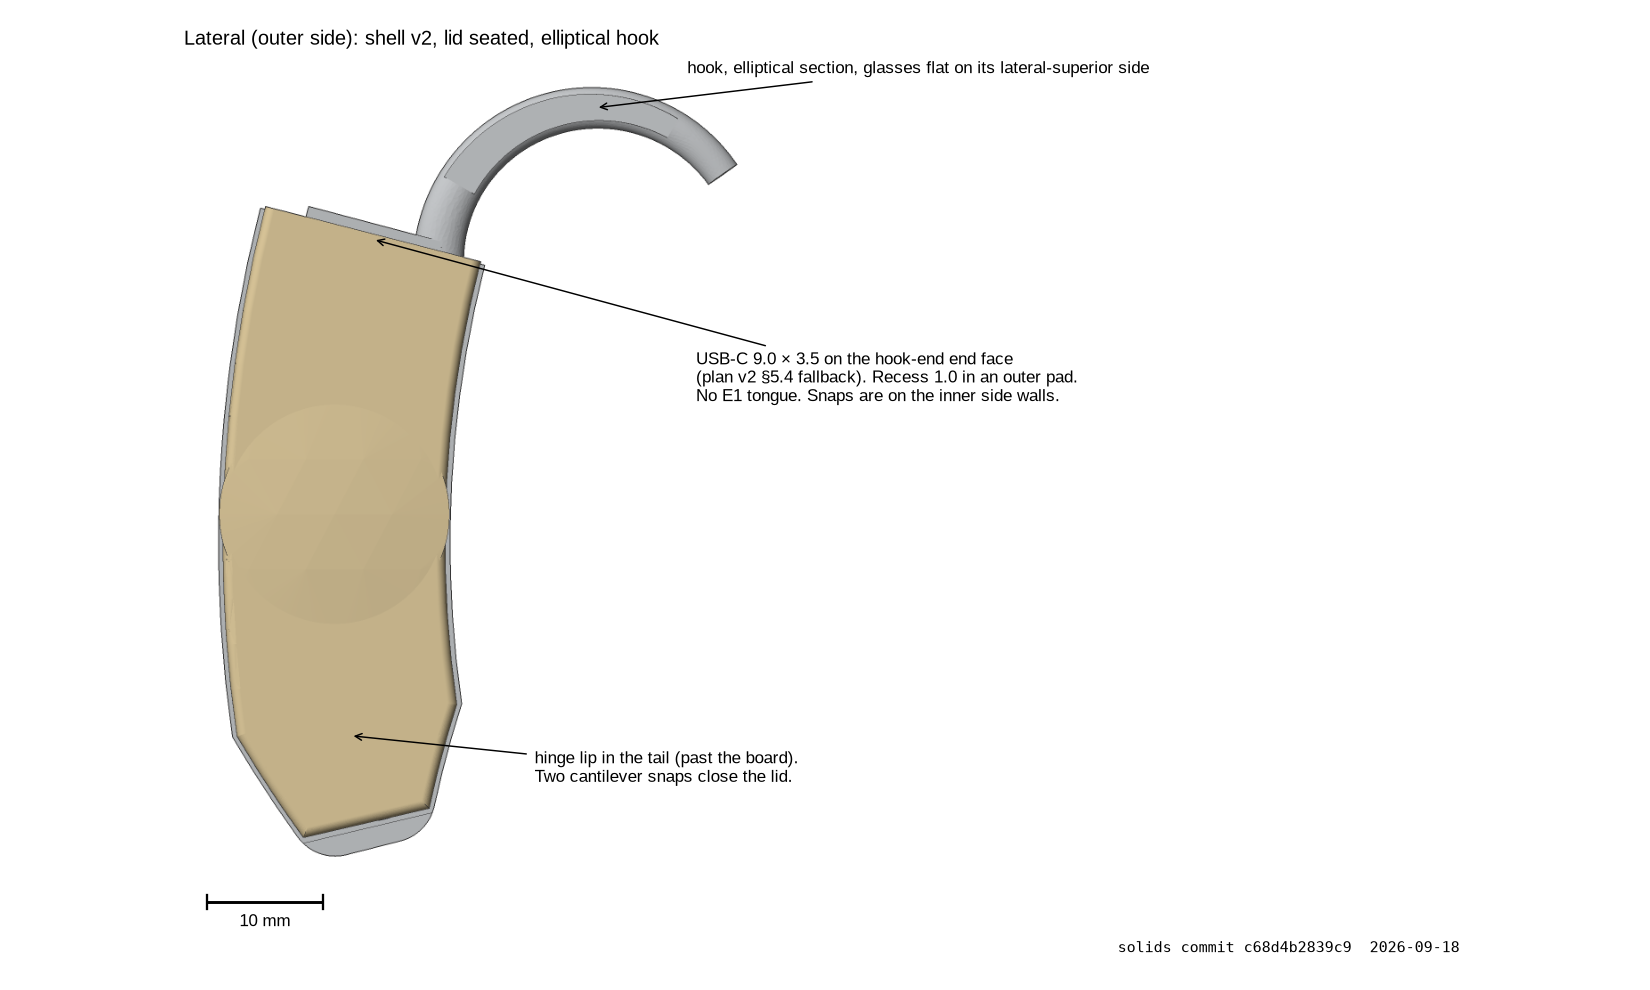
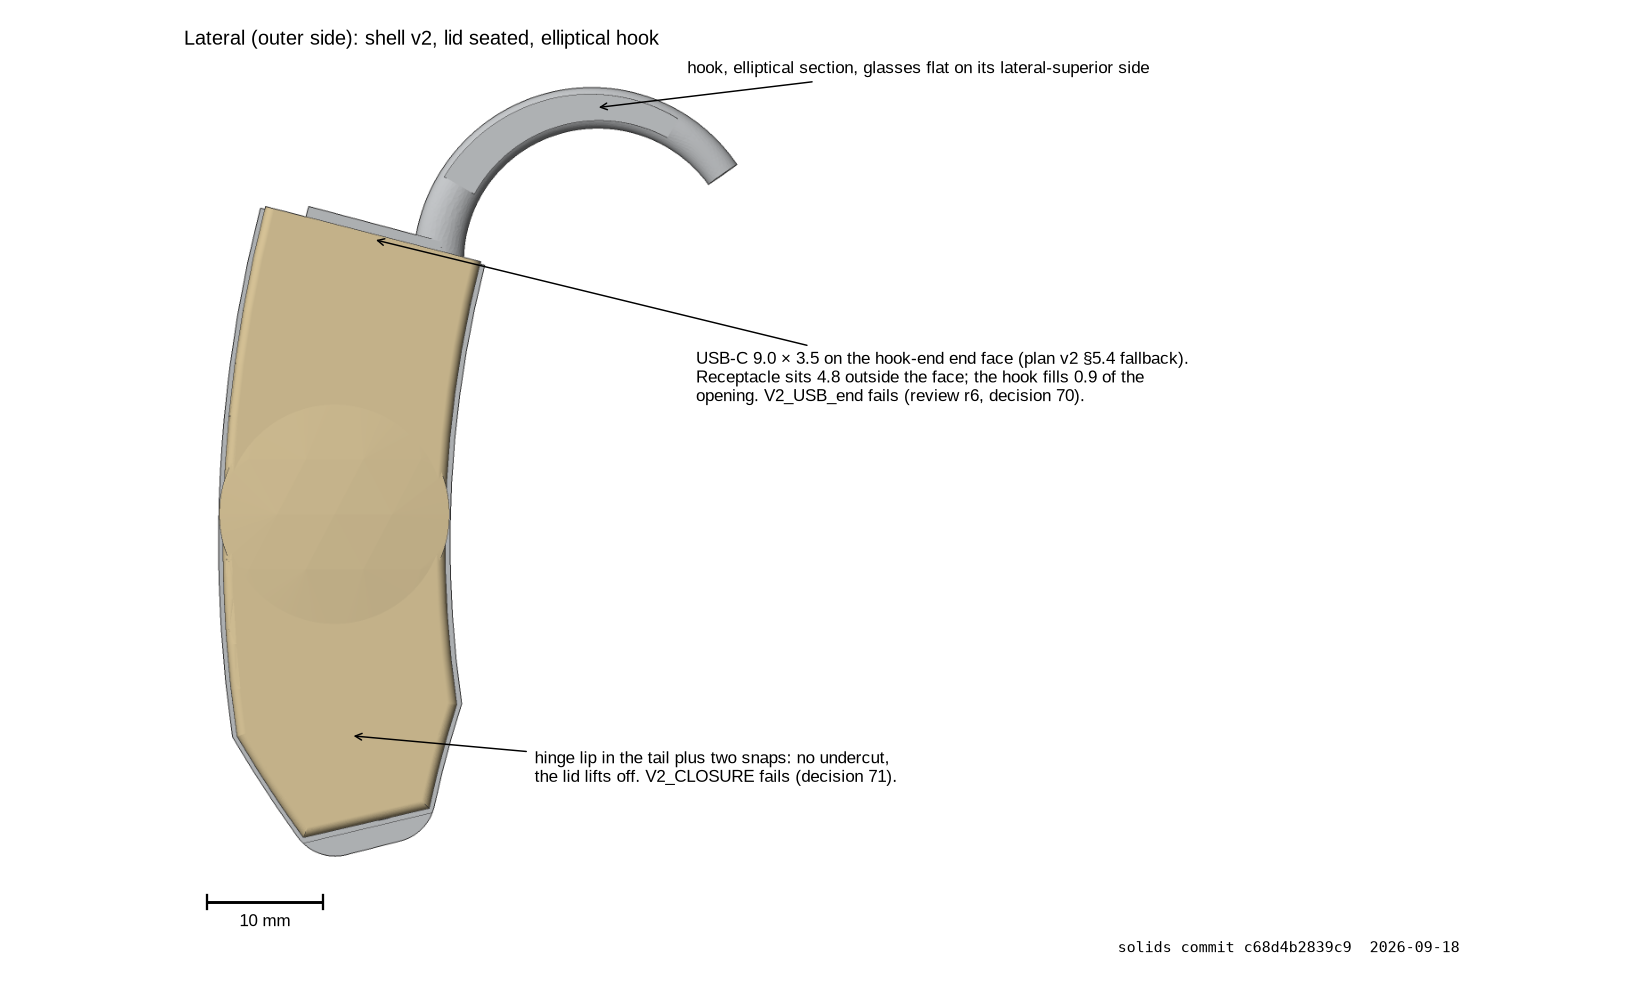
review(WP14): shell render and drawing labels say the closure and USB checks fail
The lateral render said "Two cantilever snaps close the lid" and "Recess
1.0 in an outer pad"; V2_CLOSURE and V2_USB_end measure otherwise. v1
views regenerate unchanged.

Claude-Session: https://claude.ai/code/session_01XMFSYZyhYXQZZaQMuprNYS

diff --git a/scripts/cad/render.py b/scripts/cad/render.py
@@ -540,9 +540,9 @@ def render_lateral(out_dir: Path, *, manifest: dict[str, Any], commit: str, date
     if manifest.get("stage") == "shell":
         usb = at(10.0, 0.2, 2.8)
         ax.annotate(
-            "USB-C 9.0 × 3.5 on the hook-end end face\n"
-            "(plan v2 §5.4 fallback). Recess 1.0 in an outer pad.\n"
-            "No E1 tongue. Snaps are on the inner side walls.",
+            "USB-C 9.0 × 3.5 on the hook-end end face (plan v2 §5.4 fallback).\n"
+            "Receptacle sits 4.8 outside the face; the hook fills 0.9 of the\n"
+            "opening. V2_USB_end fails (review r6, decision 70).",
             xy=usb,
             xytext=(usb[0] + 28.0, usb[1] - 14.0),
             fontsize=8,
@@ -551,7 +551,7 @@ def render_lateral(out_dir: Path, *, manifest: dict[str, Any], commit: str, date
         )
         tail = at(10.0, 39.4, lid_y + 0.5)
         ax.annotate(
-            "hinge lip in the tail (past the board).\nTwo cantilever snaps close the lid.",
+            "hinge lip in the tail plus two snaps: no undercut,\nthe lid lifts off. V2_CLOSURE fails (decision 71).",
             xy=tail,
             xytext=(tail[0] + 16.0, tail[1] - 4.0),
             fontsize=8,
@@ -912,7 +912,7 @@ def draw_page(out_dir: Path, *, cad, manifest: dict[str, Any], commit: str, date
             f"chord gate: M1 ≥ {gate['gate']:.3f}",
             f"solids commit {commit}   date {date}",
             "General tolerance: ±0.3 mm under 100 mm, JLC MJF PA12",
-            "Closure: hinge lip in the tail plus two cantilever snaps (see shell-v2.md).",
+            "Closure: hinge lip plus two snaps, no undercut; V2_CLOSURE fails (shell-v2.md §2, code-r6 decision 71).",
             "USB-C on the hook-end end face. No text on the outside. Q59: packing-v2.md §5 REF_end_wall_slot.",
             *("  " + row for row in fillet_summary(manifest)),
             "Rolf approves the two renders before any shell order. Nothing is ordered here.",
